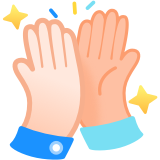
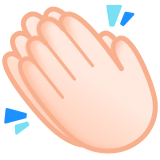
更新图标

diff --git a/lib/constant/emoji.dart b/lib/constant/emoji.dart
@@ -20,7 +20,7 @@ class TUIKitStickerConstData {
           "吐舌头.png",
           "满意.png",
           "捂手笑.png",
-          "鼓掌.png",
+          "击掌.png",
           "惊喜.png",
           "嘿哈.png",
           "奸笑.png",
@@ -228,7 +228,7 @@ class TUIKitStickerConstData {
     "吐舌头": "吐舌头",
     "满意": "满意",
     "捂手笑": "捂手笑",
-    "鼓掌": "鼓掌",
+    "击掌": "击掌",
     "惊喜": "惊喜",
     "嘿哈": "嘿哈",
     "奸笑": "奸笑",
@@ -293,6 +293,7 @@ class TUIKitStickerConstData {
     "蛋糕": "蛋糕",
     "礼物": "礼物",
     "红包": "红包",
+    "鼓掌": "鼓掌",
     "愤怒": "愤怒",
     "惊恐": "惊恐",
     "红脸": "红脸",
